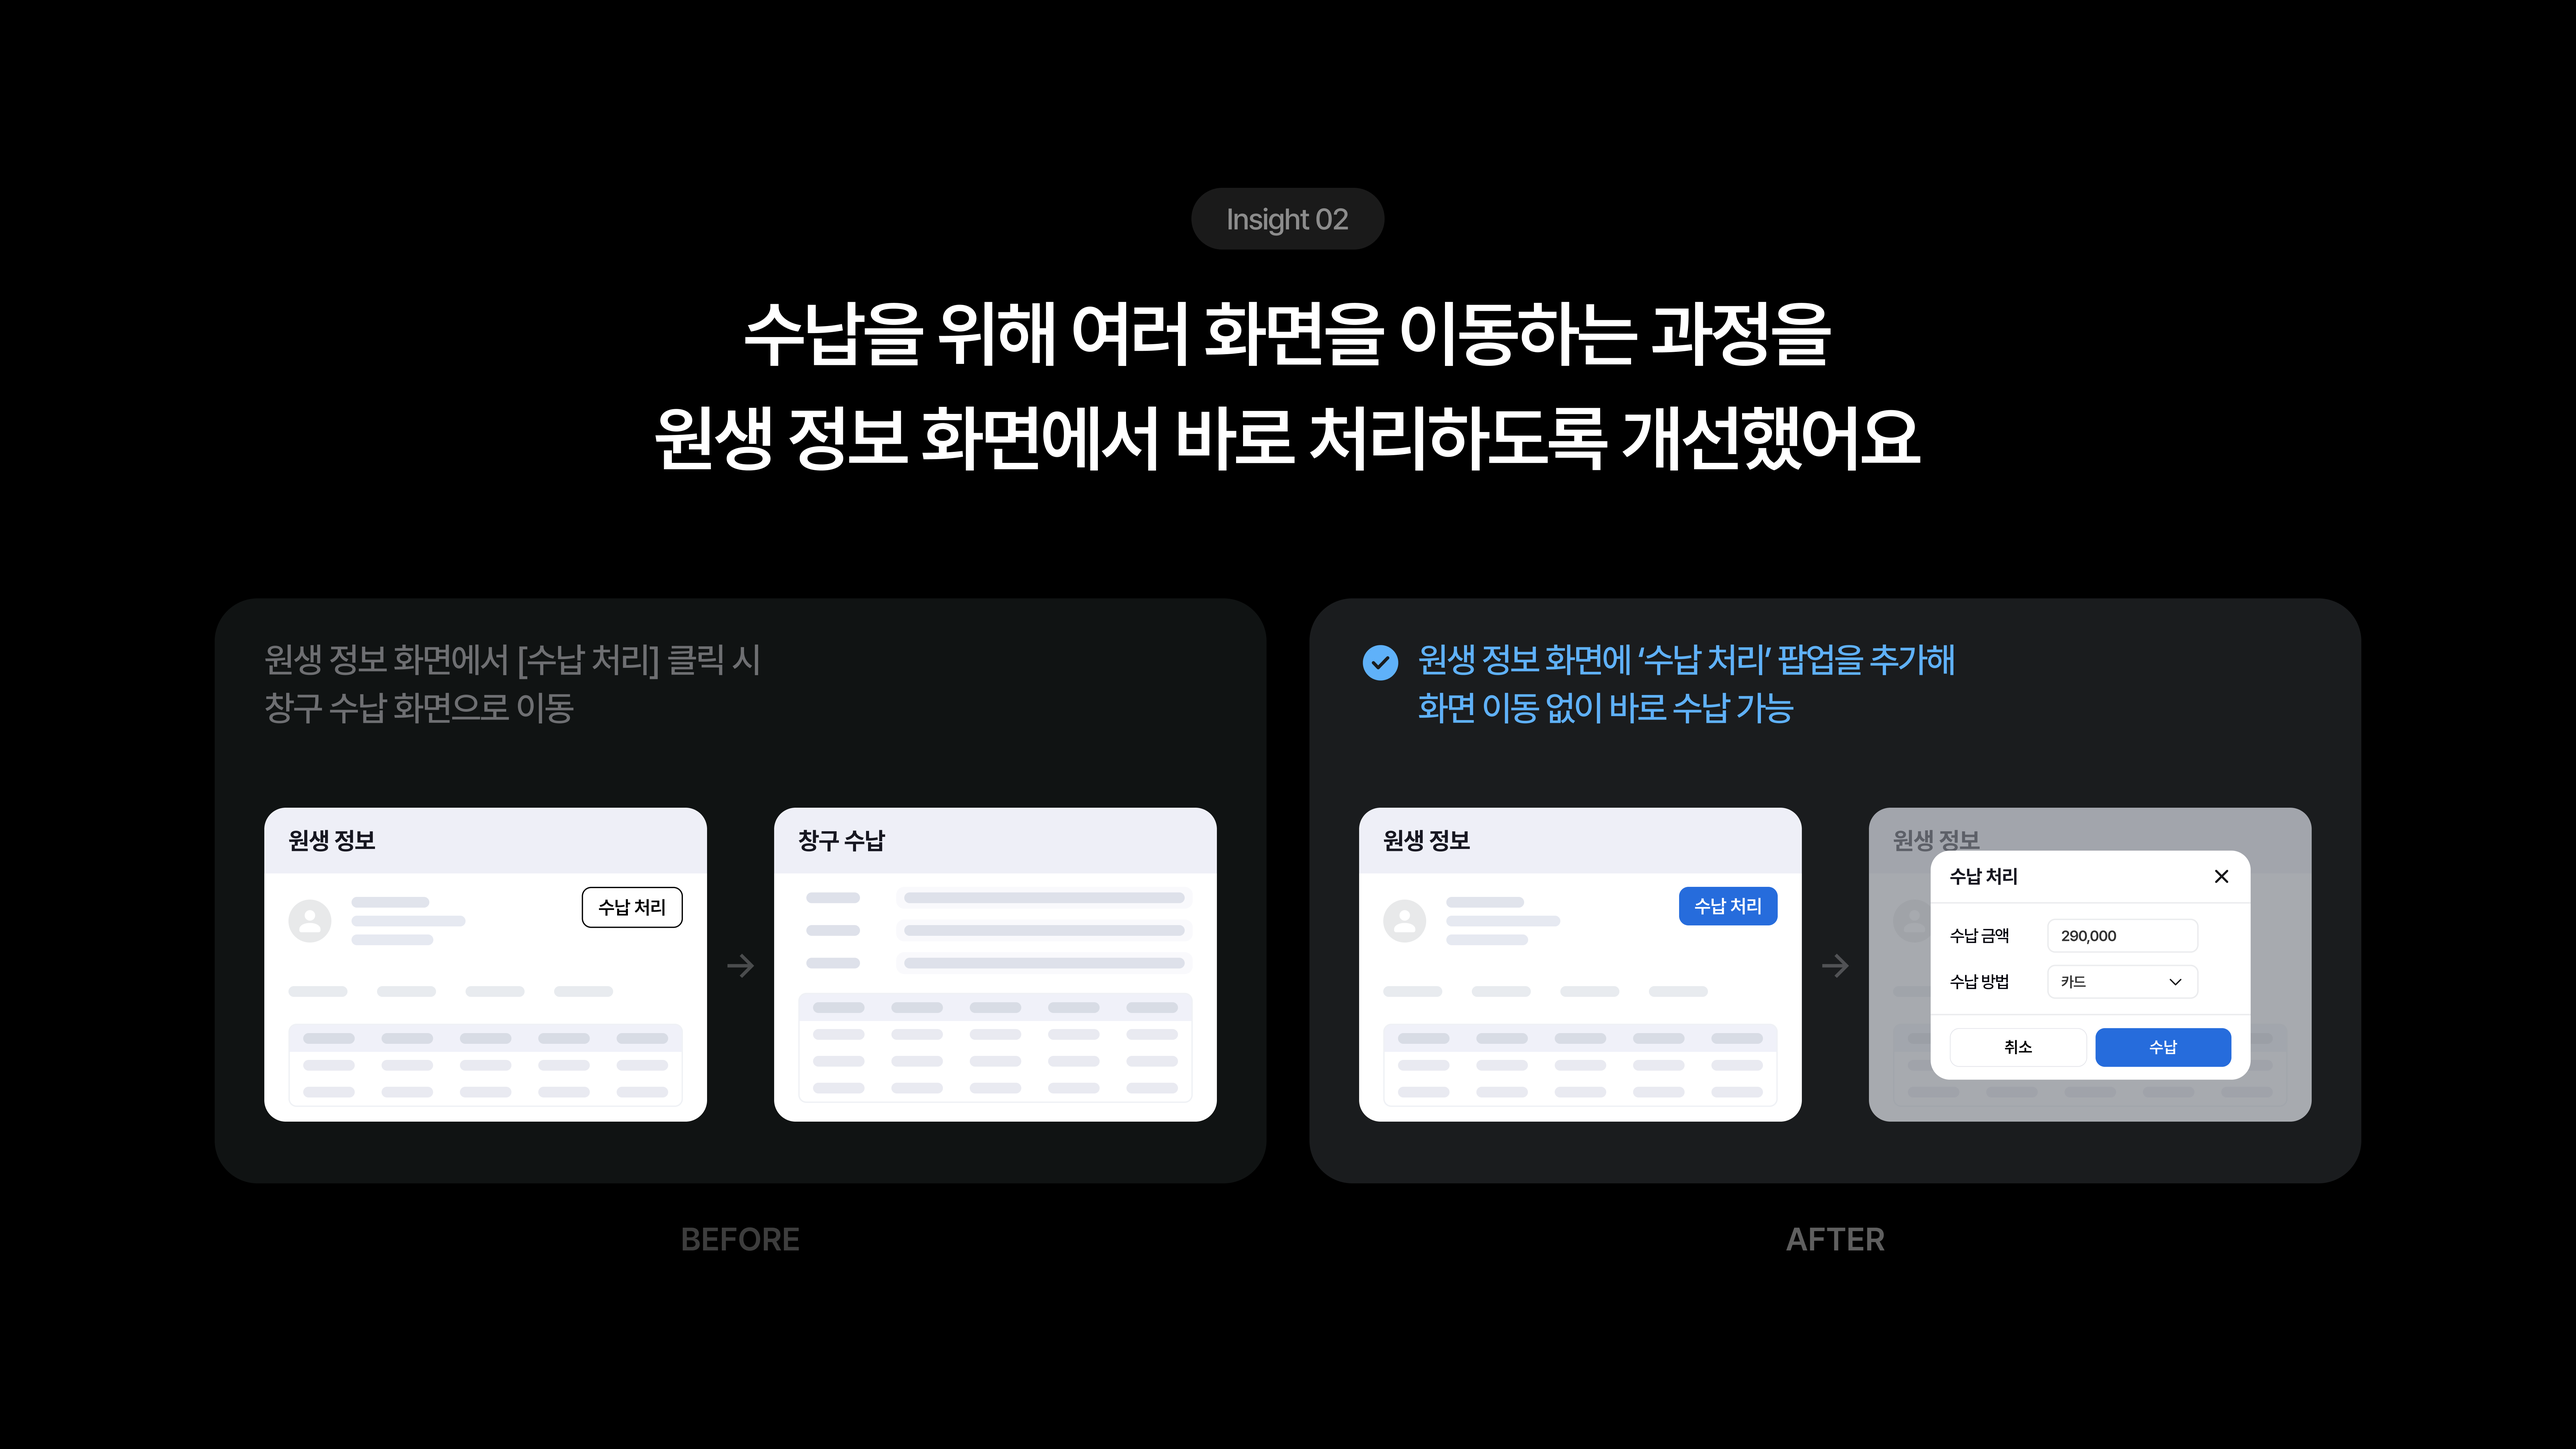
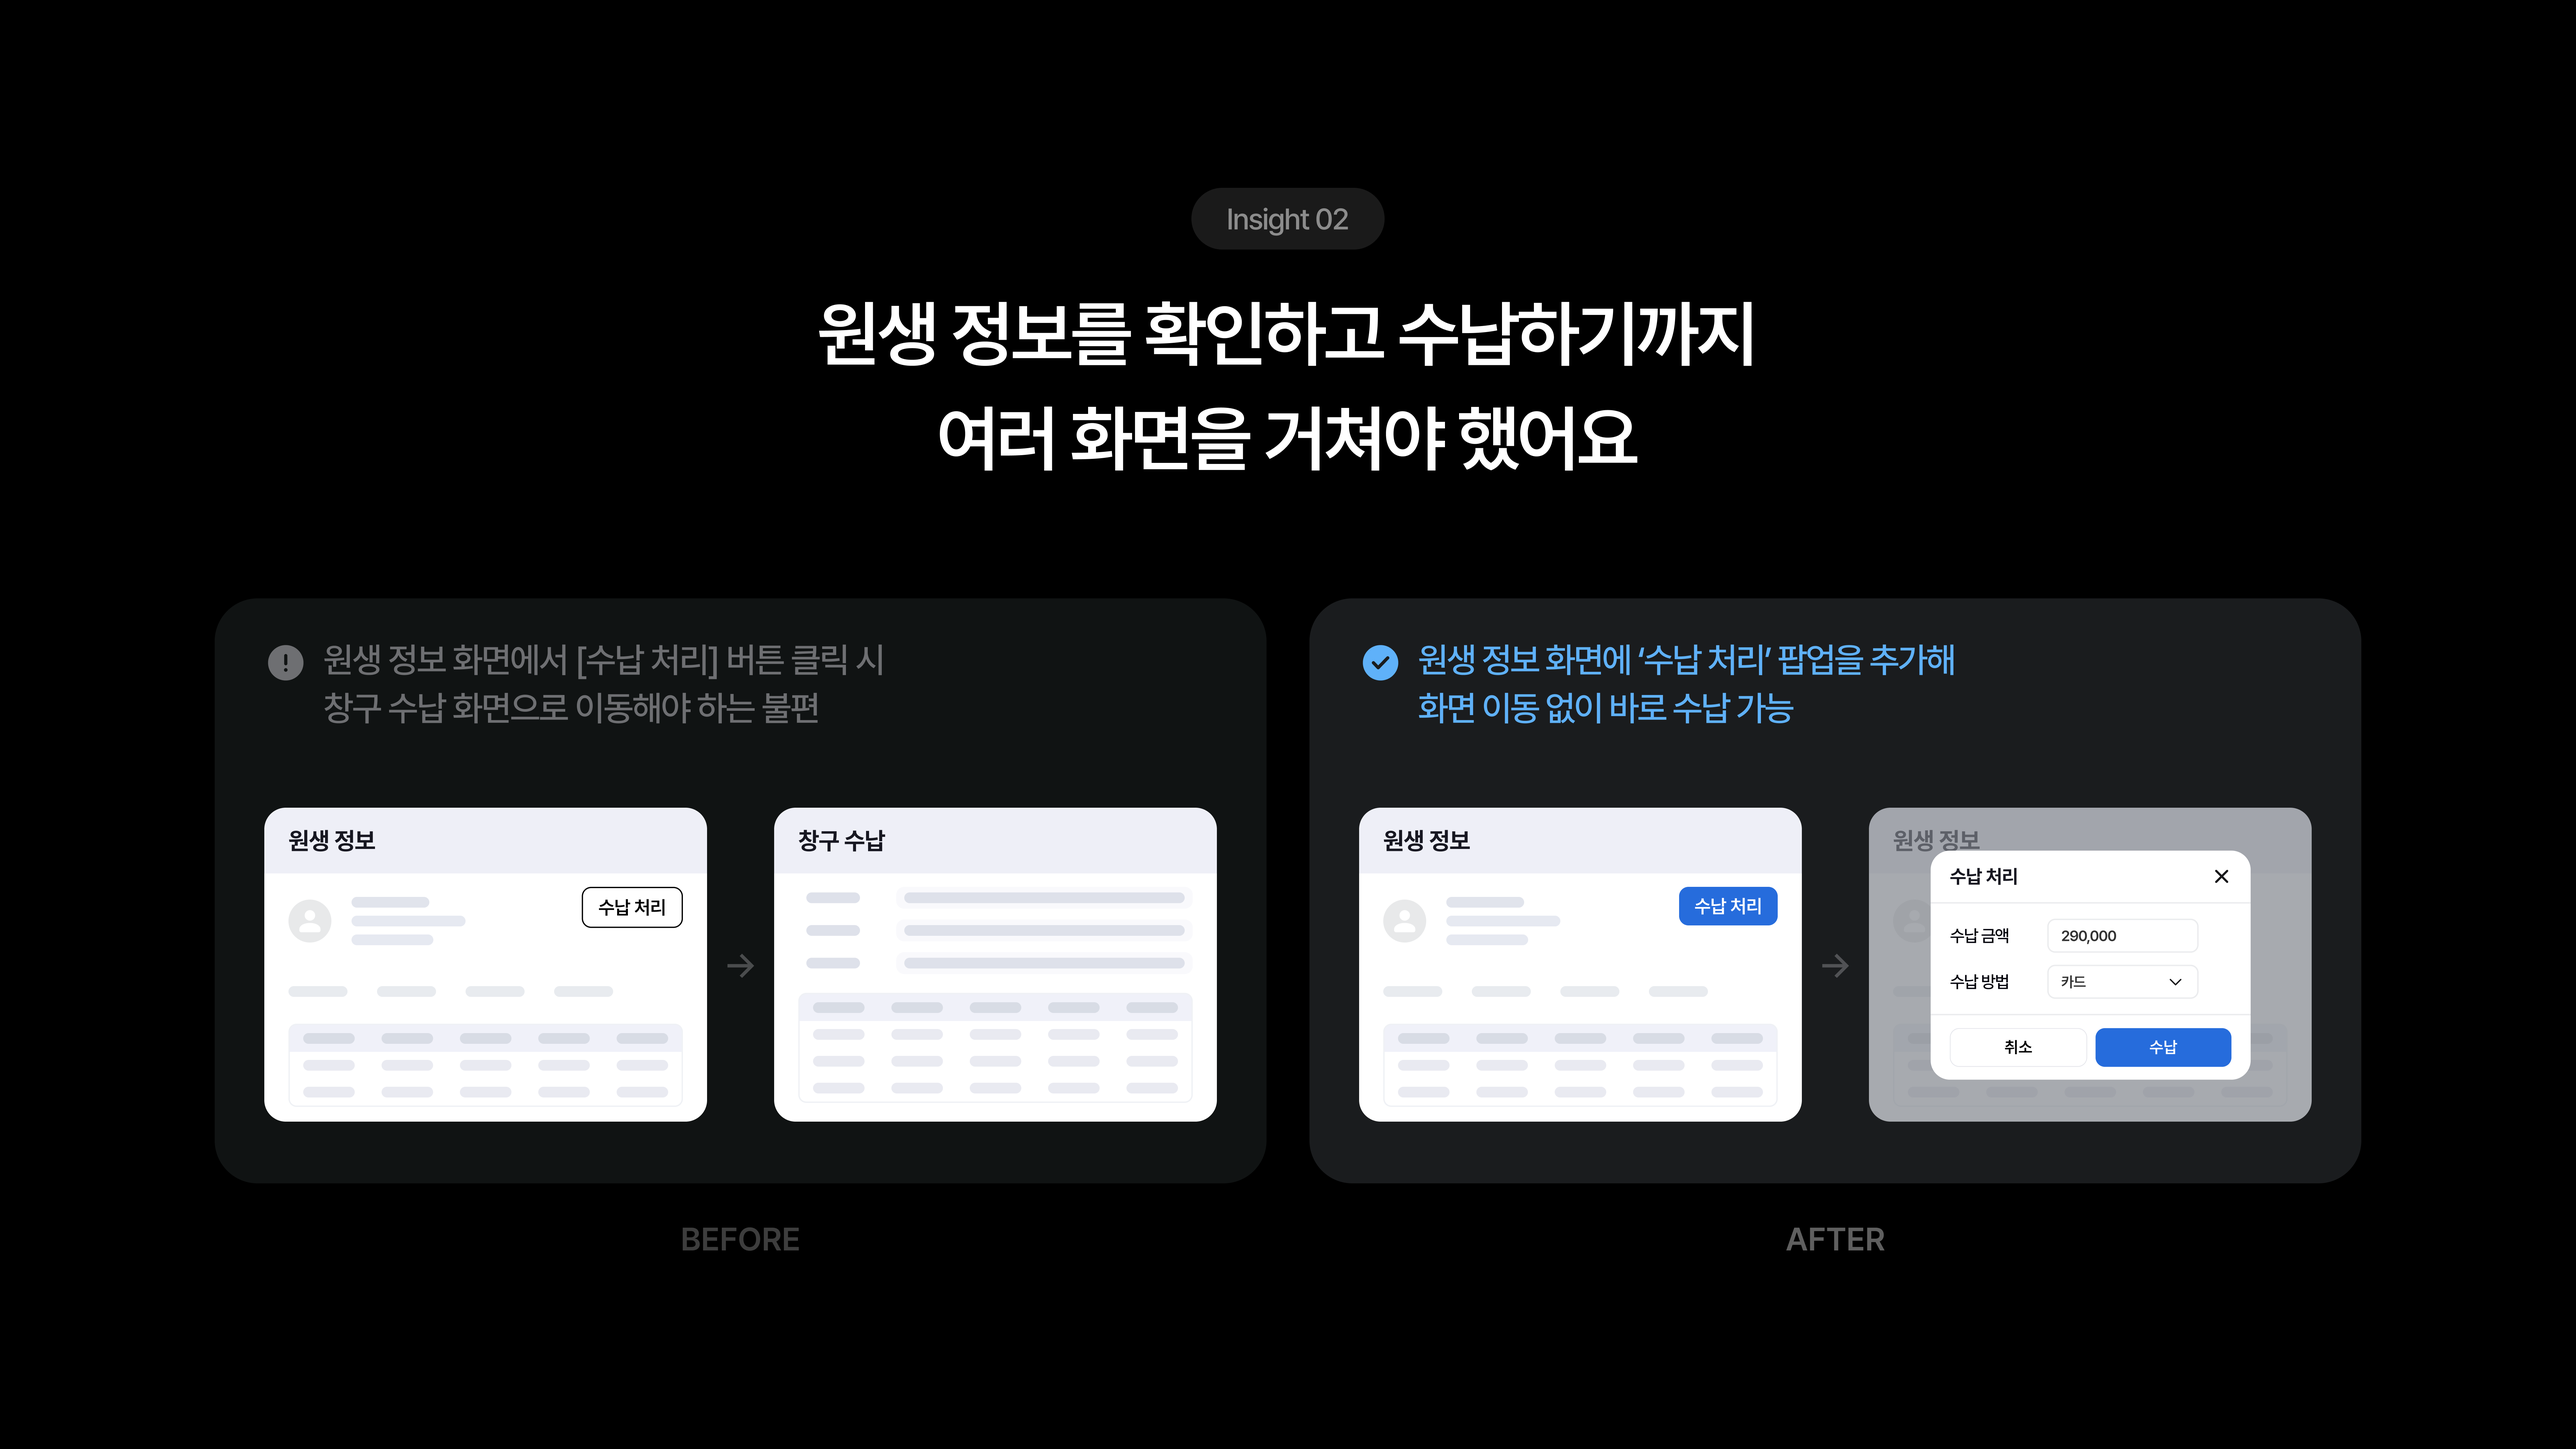
학원 ERP 05·08·09·10 슬라이드 재내보내기본 반영
- 05·08·09·10.png 갱신 (7680x4320, 총 24장 그대로)
  08~10 의 제목이 개선 서술에서 문제 서술로 다시 쓰였고,
  BEFORE 설명 앞에 경고 아이콘이 붙었다.
- ASSET_VERSION 20261126h -> 20261126i

Changed region(s): [[0.25, 0.2812, 0.75, 0.3438], [0.2812, 0.1875, 0.7188, 0.25], [0.0938, 0.4375, 0.3438, 0.5]]

diff --git a/assets/js/main.js b/assets/js/main.js
@@ -70,7 +70,7 @@
      (CSS/JS 의 ?v= 와 같은 역할)
      경로 자체에는 붙이지 않는다 — 확장자 추출이나 존재 확인이 쿼리에
      오염되면 안 되므로, <img src> 에 실을 때만 versioned() 로 감싼다. */
-  var ASSET_VERSION = '20261126h';
+  var ASSET_VERSION = '20261126i';
   function slidePath(key, n, ext) { return 'assets/slides/' + key + '/' + pad(n) + '.' + ext; }
   function versioned(src) { return src + '?v=' + ASSET_VERSION; }
 

diff --git a/index.html b/index.html
@@ -169,6 +169,6 @@
   </div>
 </div>
 
-<script src="assets/js/main.js?v=20261126h"></script>
+<script src="assets/js/main.js?v=20261126i"></script>
 </body>
 </html>
